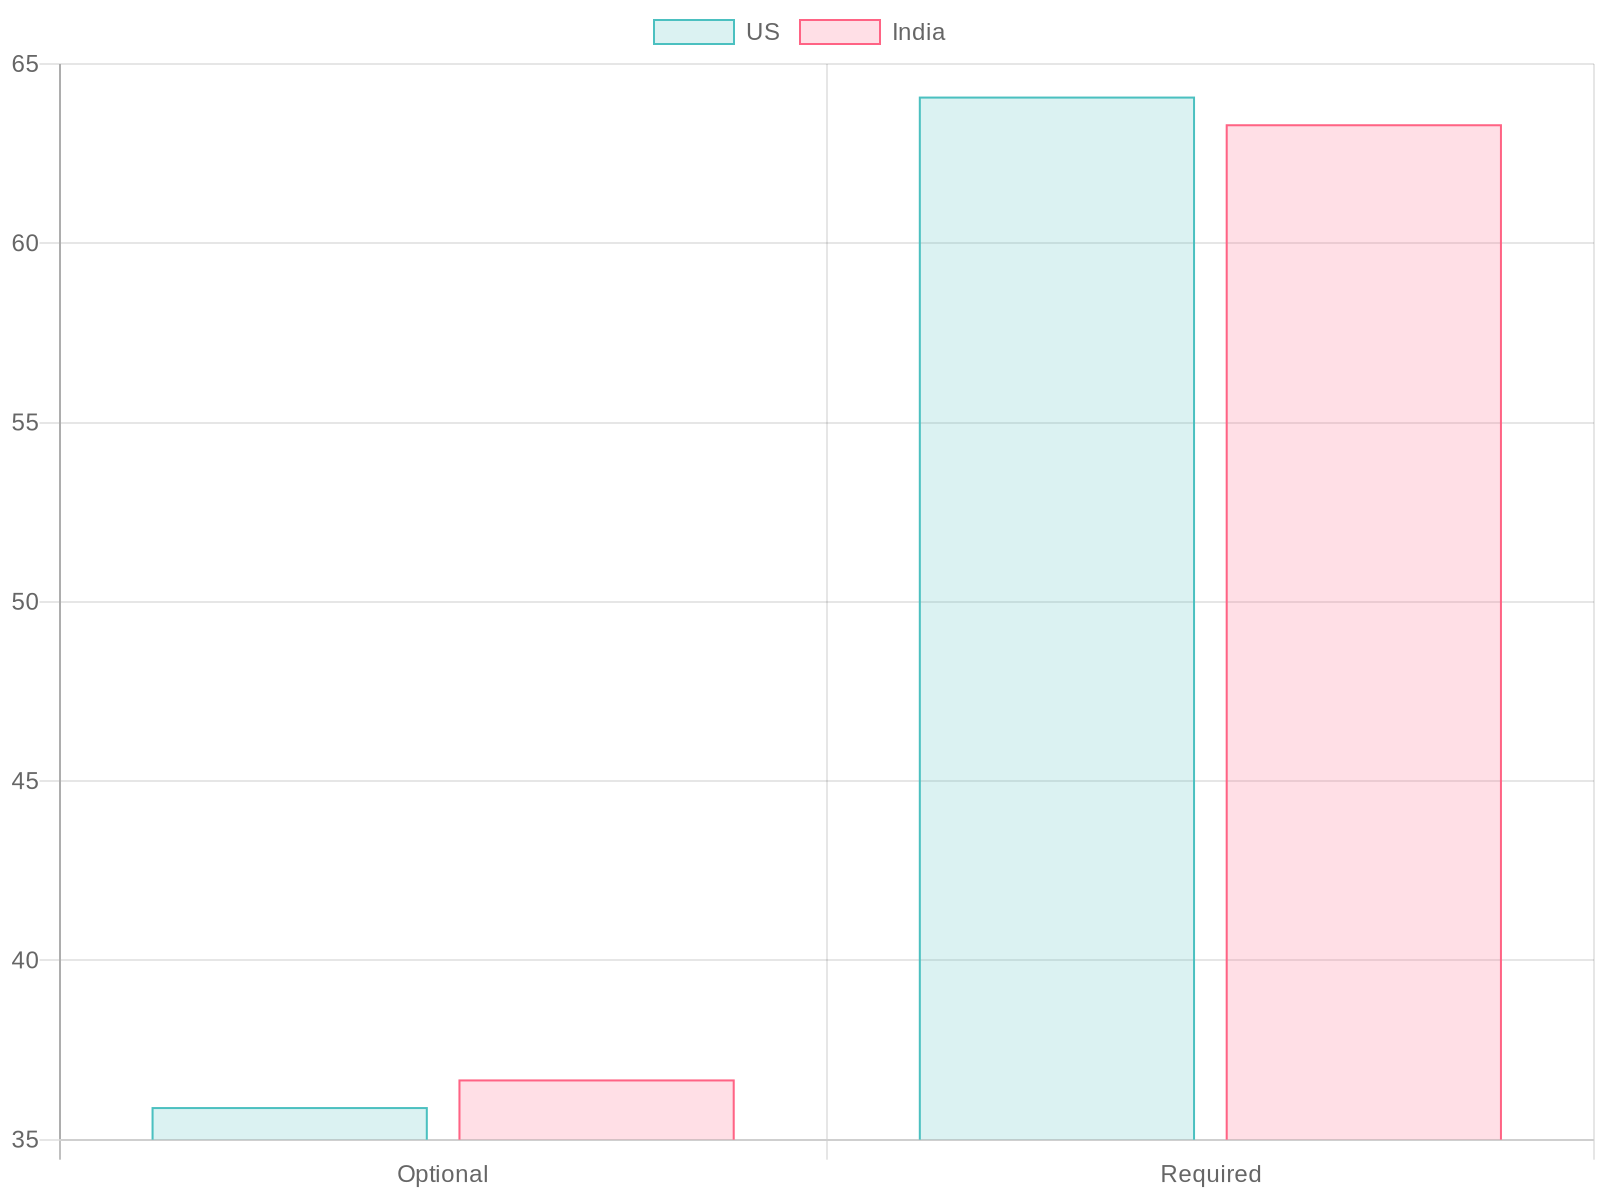
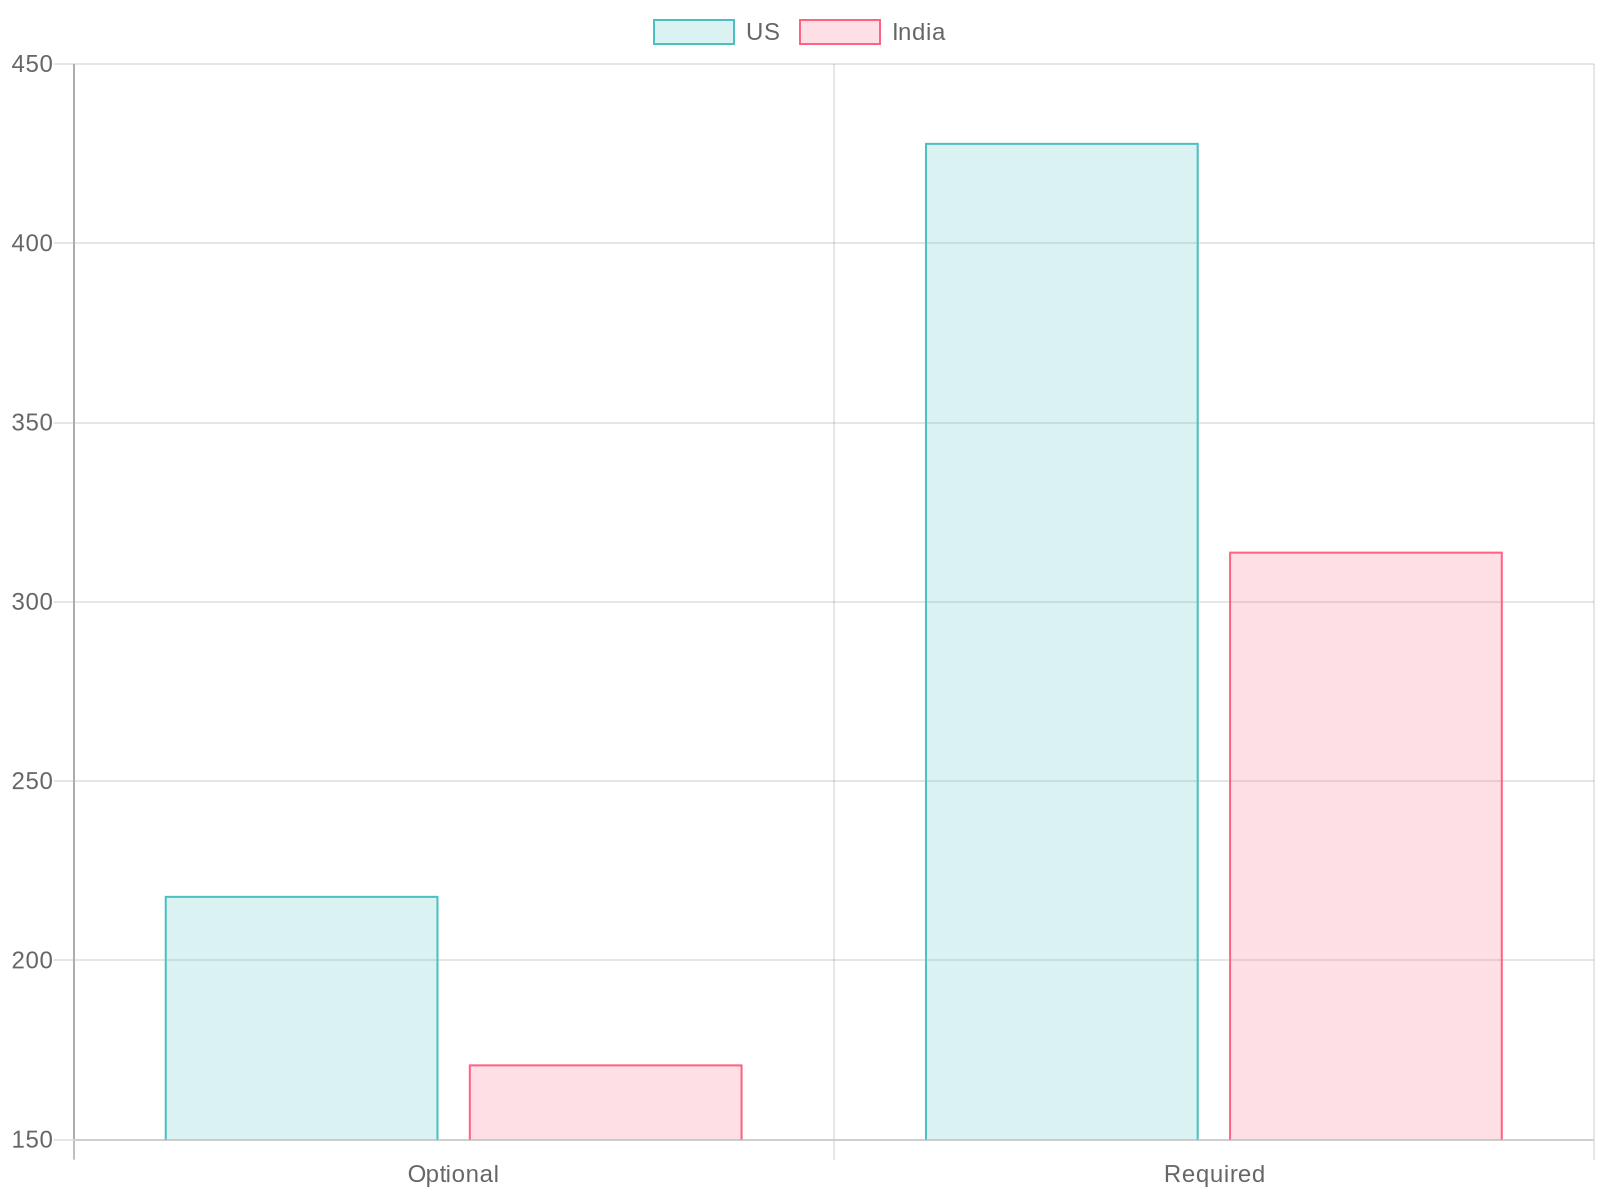
t test added

diff --git a/dataAnalytics.js b/dataAnalytics.js
@@ -1,19 +1,25 @@
 import { readFileSync, writeFileSync } from "fs";
 import QuickChart from "quickchart-js";
+import _ from "lodash";
+import { tTestTwoSample } from "simple-statistics";
 
 // Read and parse the JSON files for each country
 const usData = JSON.parse(readFileSync("./apps/USApps.json", "utf8"));
 const indianData = JSON.parse(readFileSync("./apps/IndianApps.json", "utf8"));
 
+// Take a random sample of 100 apps from each dataset
+const usSample = _.sampleSize(usData, 100);
+const indianSample = _.sampleSize(indianData, 100);
+
 // Extract collected and shared data for each app
-const usCollectedData = usData.flatMap(
+const usCollectedData = usSample.flatMap(
   (app) => app.datasafety.collectedData || []
 );
-const usSharedData = usData.flatMap((app) => app.datasafety.sharedData || []);
-const indianCollectedData = indianData.flatMap(
+const usSharedData = usSample.flatMap((app) => app.datasafety.sharedData || []);
+const indianCollectedData = indianSample.flatMap(
   (app) => app.datasafety.collectedData || []
 );
-const indianSharedData = indianData.flatMap(
+const indianSharedData = indianSample.flatMap(
   (app) => app.datasafety.sharedData || []
 );
 
@@ -27,6 +33,8 @@ const countByType = (data, typeField) => {
 
 const usTypeCounts = countByType(usCollectedData, "type");
 const indianTypeCounts = countByType(indianCollectedData, "type");
+const indianDataCounts = countByType(indianCollectedData, "data");
+const usDataCounts = countByType(usCollectedData, "data");
 
 // Count the number of unique purposes in each dataset.
 const countByPurpose = (data) => {
@@ -44,17 +52,11 @@ const indianPurposeCounts = countByPurpose(indianCollectedData);
 
 // Count the number of optional and required data types in each dataset
 const countOptionality = (data) => {
-  const count = data.reduce((acc, item) => {
+  return data.reduce((acc, item) => {
     acc[item.optional ? "optional" : "required"] =
       (acc[item.optional ? "optional" : "required"] || 0) + 1;
     return acc;
   }, {});
-
-  const total = count.optional + count.required;
-  return {
-    optional: (((count.optional || 0) / total) * 100).toFixed(2),
-    required: (((count.required || 0) / total) * 100).toFixed(2),
-  };
 };
 
 const usOptionality = countOptionality(usCollectedData);
@@ -69,100 +71,159 @@ const countSecurityPractices = (data) => {
   }, {});
 };
 
-const usSecurityPractices = countSecurityPractices(usData);
-const indianSecurityPractices = countSecurityPractices(indianData);
+const usSecurityPractices = countSecurityPractices(usSample);
+const indianSecurityPractices = countSecurityPractices(indianSample);
+
+// Perform a two-sample t-test and calculate confidence interval
+// Perform a two-sample t-test and calculate confidence interval manually
+const performTTest = (usCounts, indianCounts) => {
+  const usValues = Object.values(usCounts);
+  const indianValues = Object.values(indianCounts);
+
+  // Perform t-test
+  const tTestResult = tTestTwoSample(usValues, indianValues, 0);
+
+  // Calculate means
+  const usMean = usValues.reduce((a, b) => a + b, 0) / usValues.length;
+  const indianMean =
+    indianValues.reduce((a, b) => a + b, 0) / indianValues.length;
+
+  // Calculate standard deviations
+  const usSD = Math.sqrt(
+    usValues.reduce((a, b) => a + Math.pow(b - usMean, 2), 0) /
+      (usValues.length - 1)
+  );
+  const indianSD = Math.sqrt(
+    indianValues.reduce((a, b) => a + Math.pow(b - indianMean, 2), 0) /
+      (indianValues.length - 1)
+  );
+
+  // Calculate standard error
+  const standardError = Math.sqrt(
+    (usSD * usSD) / usValues.length +
+      (indianSD * indianSD) / indianValues.length
+  );
+
+  // Calculate confidence interval (using 1.96 for 95% confidence level)
+  const marginOfError = 1.96 * standardError;
+  const meanDifference = usMean - indianMean;
+  const confidenceInterval = [
+    meanDifference - marginOfError,
+    meanDifference + marginOfError,
+  ];
+
+  return {
+    tTestResult,
+    confidenceInterval: confidenceInterval.map((v) => v.toFixed(2)),
+  };
+};
 
 // Create a table comparing US and Indian data type counts
-const createComparisonTable = (
-  usCounts,
-  indianCounts,
-  usTotal,
-  indianTotal,
-  title
-) => {
+const createComparisonTable = (usCounts, indianCounts, title) => {
   const allTypes = new Set([
     ...Object.keys(usCounts),
     ...Object.keys(indianCounts),
   ]);
   let table = `${title}\n`;
   table += "-------------------------|----------------|------------------\n";
-  table += "Type                     | US Percentage  | Indian Percentage\n";
+  table += "Type                     | US Count       | Indian Count\n";
   table += "-------------------------|----------------|------------------\n";
   allTypes.forEach((type) => {
-    const usPercentage = (((usCounts[type] || 0) / usTotal) * 100).toFixed(2);
-    const indianPercentage = (
-      ((indianCounts[type] || 0) / indianTotal) *
-      100
-    ).toFixed(2);
-    table += `${type.padEnd(25)} | ${usPercentage.padStart(
-      14
-    )}% | ${indianPercentage.padStart(16)}%\n`;
+    const usCount = usCounts[type] || 0;
+    const indianCount = indianCounts[type] || 0;
+    table += `${type.padEnd(25)} | ${usCount
+      .toString()
+      .padStart(14)} | ${indianCount.toString().padStart(16)}\n`;
   });
+  const { tTestResult, confidenceInterval } = performTTest(
+    usCounts,
+    indianCounts
+  );
+  table += `\nT-Test Result: ${tTestResult}\n`;
+  table += `95% Confidence Interval: [${confidenceInterval[0]}, ${confidenceInterval[1]}]\n`;
+  table += `Inference: ${
+    tTestResult < 0.05
+      ? "Statistically significant"
+      : "Not statistically significant"
+  } at 95% confidence level\n`;
   return table;
 };
 
-// Create a table for optionality percentages
+// Create a table for optionality counts
 const createOptionalityTable = (usOptionality, indianOptionality) => {
   let table = "Optionality Comparison\n";
   table += "-------------------------|----------------|------------------\n";
-  table += "Type                     | US Percentage  | Indian Percentage\n";
+  table += "Type                     | US Count       | Indian Count\n";
   table += "-------------------------|----------------|------------------\n";
-  table += `Optional                | ${usOptionality.optional.padStart(
-    14
-  )}% | ${indianOptionality.optional.padStart(16)}%\n`;
-  table += `Required                | ${usOptionality.required.padStart(
-    14
-  )}% | ${indianOptionality.required.padStart(16)}%\n`;
+  table += `Optional                | ${usOptionality.optional
+    .toString()
+    .padStart(14)} | ${indianOptionality.optional.toString().padStart(16)}\n`;
+  table += `Required                | ${usOptionality.required
+    .toString()
+    .padStart(14)} | ${indianOptionality.required.toString().padStart(16)}\n`;
+  const { tTestResult, confidenceInterval } = performTTest(
+    usOptionality,
+    indianOptionality
+  );
+  table += `\nT-Test Result: ${tTestResult}\n`;
+  table += `95% Confidence Interval: [${confidenceInterval[0]}, ${confidenceInterval[1]}]\n`;
+  table += `Inference: ${
+    tTestResult < 0.05
+      ? "Statistically significant"
+      : "Not statistically significant"
+  } at 95% confidence level\n`;
   return table;
 };
 
 // Create a table for security practices counts
-const createSecurityPracticesTable = (
-  usCounts,
-  indianCounts,
-  usTotal,
-  indianTotal
-) => {
+const createSecurityPracticesTable = (usCounts, indianCounts, title) => {
   const allPractices = new Set([
     ...Object.keys(usCounts),
     ...Object.keys(indianCounts),
   ]);
-  let table = "Security Practices Comparison\n";
+  let table = `${title}\n`;
   table += "-------------------------|----------------|------------------\n";
-  table += "Practice                 | US Percentage  | Indian Percentage\n";
+  table += "Practice                 | US Count       | Indian Count\n";
   table += "-------------------------|----------------|------------------\n";
   allPractices.forEach((practice) => {
-    const usPercentage = (((usCounts[practice] || 0) / usTotal) * 100).toFixed(
-      2
-    );
-    const indianPercentage = (
-      ((indianCounts[practice] || 0) / indianTotal) *
-      100
-    ).toFixed(2);
-    table += `${practice.padEnd(25)} | ${usPercentage.padStart(
-      14
-    )}% | ${indianPercentage.padStart(16)}%\n`;
+    const usCount = usCounts[practice] || 0;
+    const indianCount = indianCounts[practice] || 0;
+    table += `${practice.padEnd(25)} | ${usCount
+      .toString()
+      .padStart(14)} | ${indianCount.toString().padStart(16)}\n`;
   });
+  const { tTestResult, confidenceInterval } = performTTest(
+    usCounts,
+    indianCounts
+  );
+  table += `\nT-Test Result: ${tTestResult}\n`;
+  table += `95% Confidence Interval: [${confidenceInterval[0]}, ${confidenceInterval[1]}]\n`;
+  table += `Inference: ${
+    tTestResult < 0.05
+      ? "Statistically significant"
+      : "Not statistically significant"
+  } at 95% confidence level\n`;
   return table;
 };
 
 // Count the number of apps in each dataset
-const usAppCount = usData.length;
-const indianAppCount = indianData.length;
+const usAppCount = usSample.length;
+const indianAppCount = indianSample.length;
 
 const typeComparisonTable = createComparisonTable(
   usTypeCounts,
   indianTypeCounts,
-  usAppCount,
-  indianAppCount,
   "Data Type Counts Comparison"
 );
 const purposeComparisonTable = createComparisonTable(
   usPurposeCounts,
   indianPurposeCounts,
-  usAppCount,
-  indianAppCount,
   "Purpose Counts Comparison"
+);
+const datasComparisonTable = createComparisonTable(
+  usDataCounts,
+  indianDataCounts,
+  "Data Counts Comparison"
 );
 const optionalityTable = createOptionalityTable(
   usOptionality,
@@ -171,8 +232,7 @@ const optionalityTable = createOptionalityTable(
 const securityPracticesTable = createSecurityPracticesTable(
   usSecurityPractices,
   indianSecurityPractices,
-  usAppCount,
-  indianAppCount
+  "Security Practices Comparison"
 );
 
 // Write the tables and app counts to a file
@@ -180,7 +240,7 @@ const appCounts = `App Counts\n----------\nUS Apps: ${usAppCount}\nIndian Apps: 
 
 writeFileSync(
   "./dataComparison.txt",
-  `${appCounts}${typeComparisonTable}\n\n${purposeComparisonTable}\n\n${optionalityTable}\n\n${securityPracticesTable}`
+  `${appCounts}${typeComparisonTable}\n\n${purposeComparisonTable}\n\n${optionalityTable}\n\n${securityPracticesTable}\n\n${datasComparisonTable}`
 );
 
 console.log(
